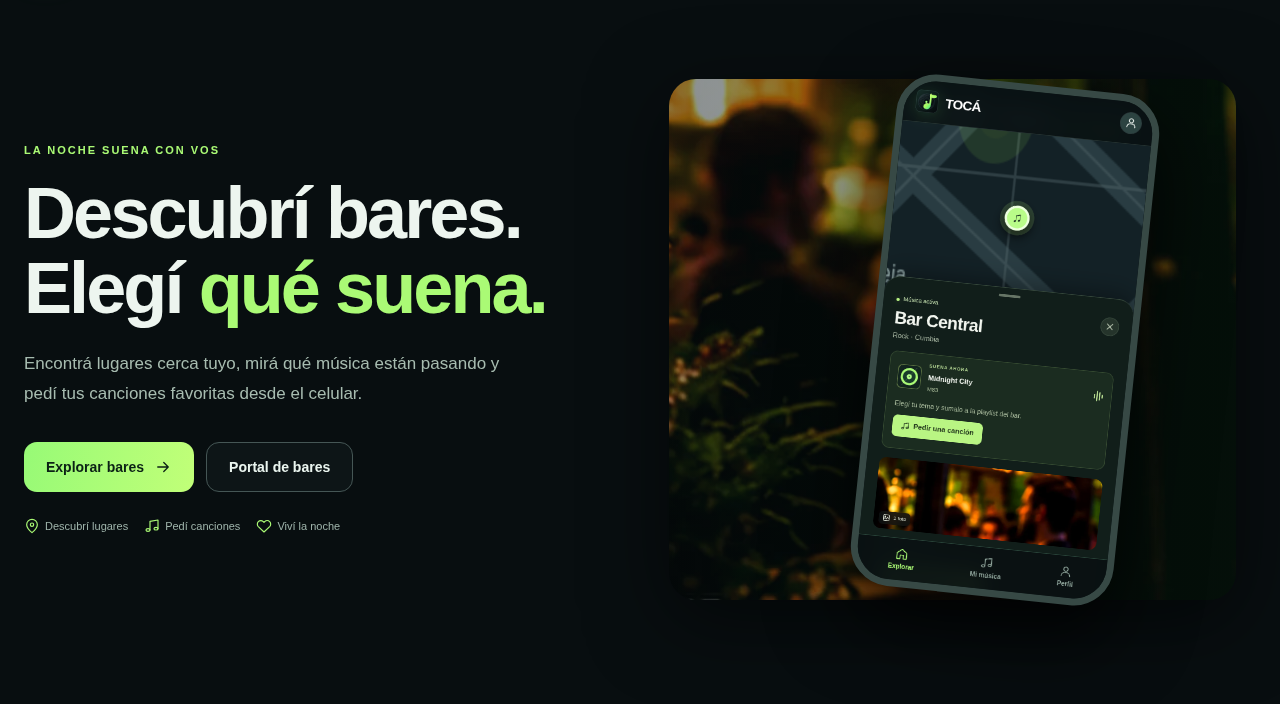
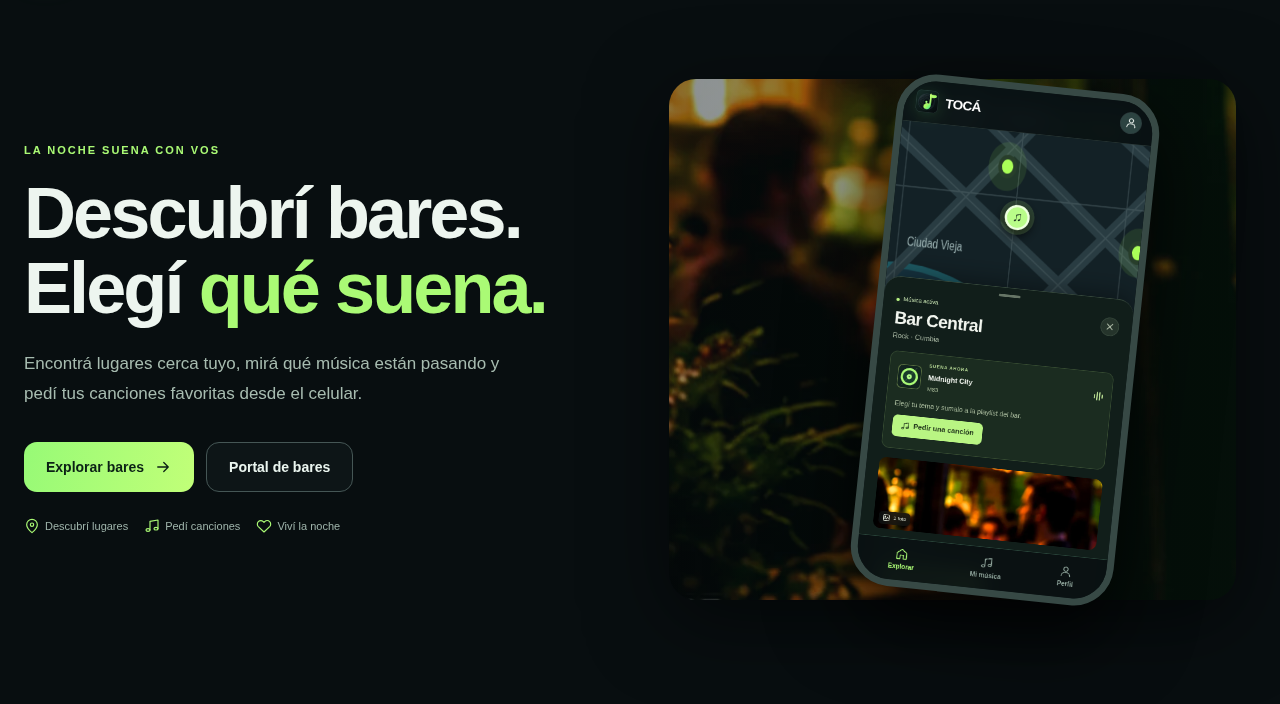
Zoom out the map in the homepage phone screenshot

Changed region(s): [[0.6875, 0.1562, 0.9062, 0.4062]]

diff --git a/web/sw.js b/web/sw.js
@@ -1,4 +1,4 @@
-const CACHE="toca-shell-a2eece8c72c16a1b";const SHELL=["/", "/index.html", "/manifest.webmanifest", "/assets/icon.svg", "/styles.css", "/toca.css?v=admin-width-1", "/toca-admin-clean.css?v=1735", "/toca-dashboard-controls.css?v=1737", "/toca-mibar-v174.css?v=174", "/toca-hours-v175.css?v=176", "/toca-v180.css?v=180", "/toca-map-credits-v181.css?v=181", "/toca-location-v184.css?v=184", "/toca-v184.css?v=184", "/toca-v185.css?v=185", "/toca-location-v1810.css?v=1810", "/toca-description-v1811.css?v=1811", "/toca-artwork-v1813.css?v=1813", "/toca-now-v1816.css?v=1816", "/toca-playlist-v1820.css?v=1820", "/toca-playlist-scroll-v1821.css?v=1821", "/toca-how-v1823.css?v=1823", "/toca-customer-v1826.css?v=1826", "/toca-presence-v1827.css?v=1827", "/toca-access-layout-v1829.css?v=1829", "/toca-cleanup-v1830.css?v=1830", "/toca-mi-bar-cards-v1839.css?v=1839", "/toca-spacing-v1840.css?v=1840", "/toca-profile-v1841.css?v=1841", "/toca-map-hover-v1845.css?v=1845", "/toca-google-v1847.css?v=1847", "/admin-profile.css?v=1", "/account.css?v=1", "/music-cabina.css?v=number-heading-1", "/venue-import.css?v=bio-hours-1", "/venue-onboarding.css?v=1", "/venue-profile.css?v=admin-width-1", "/venue-gallery.css?v=1", "/customer-wallet.css?v=brand-colors-3", "/bar-dashboard.css?v=1", "/map-place-panel.css?v=5", "/landing.css?v=steps-4", "/config.js?v=marketing-1", "/assets/qr.js", "/toca-hours-v175.js?v=176", "/request-sync.js?v=redirect-2", "/app.js?v=resume-after-topup-3", "/map-place-panel.js?v=5", "/toca-map-credits-v181.js?v=181", "/toca-ui.js?v=landing-3", "/bar-dashboard.js?v=1", "/venue-gallery.js?v=1", "/customer-wallet.js?v=resume-after-topup-2", "/toca-customer-v1826.js?v=account-layout-2", "/live-music.js?v=1816", "/venue-location.js?v=onboarding-1", "/toca-location-v1828.js?v=1828", "/toca-v17.js?v=venue-gallery-1", "/toca-v1738.js?v=1738", "/toca-v1739.js?v=1739", "/toca-artwork-v1813.js?v=1813", "/toca-now-v1816.js?v=1816", "/toca-playlist-v1820.js?v=1821", "/toca-presence-v1827.js?v=presence-recovery-1", "/toca-admin-access-v1829.js?v=distance-1", "/toca-cleanup-v1830.js?v=1830", "/toca-mi-bar-cards-v1839.js?v=1839", "/toca-profile-v1841.js?v=tokens-1", "/toca-google-v1847.js?v=1847b", "/account.js?v=2", "/map-loader.js?v=distance-map-1", "/landing.js?v=steps-4", "/runtime.js?v=3", "/admin-profile.js?v=1", "/bio-hours.js?v=1", "/venue-import.js?v=profile-sections-1", "/music-cabina.js?v=number-heading-1", "/music-cabina-drag.js?v=drag-2", "/music-edit-intent.js?v=1", "/music-playback.js?v=1", "/admin-music.js?v=playlist-edits-3", "/venue-onboarding.js?v=profile-sections-1", "/venue-profile.js?v=hours-2", "/assets/toca-home-map.svg", "/assets/venues/bar-1.webp", "/assets/venues/bar-2.webp", "/assets/venues/bar-3.webp", "/assets/venues/bar-4.webp", "/assets/venues/bar-5.webp", "/assets/venues/bar-6.webp", "/assets/landing/explore.png", "/assets/landing/search.png", "/assets/landing/tokens.png", "/assets/landing/success.png", "/assets/landing/admin-music.png"];
+const CACHE="toca-shell-8dd10aeef9542169";const SHELL=["/", "/index.html", "/manifest.webmanifest", "/assets/icon.svg", "/styles.css", "/toca.css?v=admin-width-1", "/toca-admin-clean.css?v=1735", "/toca-dashboard-controls.css?v=1737", "/toca-mibar-v174.css?v=174", "/toca-hours-v175.css?v=176", "/toca-v180.css?v=180", "/toca-map-credits-v181.css?v=181", "/toca-location-v184.css?v=184", "/toca-v184.css?v=184", "/toca-v185.css?v=185", "/toca-location-v1810.css?v=1810", "/toca-description-v1811.css?v=1811", "/toca-artwork-v1813.css?v=1813", "/toca-now-v1816.css?v=1816", "/toca-playlist-v1820.css?v=1820", "/toca-playlist-scroll-v1821.css?v=1821", "/toca-how-v1823.css?v=1823", "/toca-customer-v1826.css?v=1826", "/toca-presence-v1827.css?v=1827", "/toca-access-layout-v1829.css?v=1829", "/toca-cleanup-v1830.css?v=1830", "/toca-mi-bar-cards-v1839.css?v=1839", "/toca-spacing-v1840.css?v=1840", "/toca-profile-v1841.css?v=1841", "/toca-map-hover-v1845.css?v=1845", "/toca-google-v1847.css?v=1847", "/admin-profile.css?v=1", "/account.css?v=1", "/music-cabina.css?v=number-heading-1", "/venue-import.css?v=bio-hours-1", "/venue-onboarding.css?v=1", "/venue-profile.css?v=admin-width-1", "/venue-gallery.css?v=1", "/customer-wallet.css?v=brand-colors-3", "/bar-dashboard.css?v=1", "/map-place-panel.css?v=5", "/landing.css?v=steps-4", "/config.js?v=marketing-1", "/assets/qr.js", "/toca-hours-v175.js?v=176", "/request-sync.js?v=redirect-2", "/app.js?v=resume-after-topup-3", "/map-place-panel.js?v=5", "/toca-map-credits-v181.js?v=181", "/toca-ui.js?v=landing-3", "/bar-dashboard.js?v=1", "/venue-gallery.js?v=1", "/customer-wallet.js?v=resume-after-topup-2", "/toca-customer-v1826.js?v=account-layout-2", "/live-music.js?v=1816", "/venue-location.js?v=onboarding-1", "/toca-location-v1828.js?v=1828", "/toca-v17.js?v=venue-gallery-1", "/toca-v1738.js?v=1738", "/toca-v1739.js?v=1739", "/toca-artwork-v1813.js?v=1813", "/toca-now-v1816.js?v=1816", "/toca-playlist-v1820.js?v=1821", "/toca-presence-v1827.js?v=presence-recovery-1", "/toca-admin-access-v1829.js?v=distance-1", "/toca-cleanup-v1830.js?v=1830", "/toca-mi-bar-cards-v1839.js?v=1839", "/toca-profile-v1841.js?v=tokens-1", "/toca-google-v1847.js?v=1847b", "/account.js?v=2", "/map-loader.js?v=distance-map-1", "/landing.js?v=steps-4", "/runtime.js?v=3", "/admin-profile.js?v=1", "/bio-hours.js?v=1", "/venue-import.js?v=profile-sections-1", "/music-cabina.js?v=number-heading-1", "/music-cabina-drag.js?v=drag-2", "/music-edit-intent.js?v=1", "/music-playback.js?v=1", "/admin-music.js?v=playlist-edits-3", "/venue-onboarding.js?v=profile-sections-1", "/venue-profile.js?v=hours-2", "/assets/toca-home-map.svg", "/assets/venues/bar-1.webp", "/assets/venues/bar-2.webp", "/assets/venues/bar-3.webp", "/assets/venues/bar-4.webp", "/assets/venues/bar-5.webp", "/assets/venues/bar-6.webp", "/assets/landing/explore.png", "/assets/landing/search.png", "/assets/landing/tokens.png", "/assets/landing/success.png", "/assets/landing/admin-music.png"];
 self.addEventListener('install',e=>e.waitUntil(caches.open(CACHE).then(c=>c.addAll(SHELL)).then(()=>self.skipWaiting())));
 self.addEventListener('activate',e=>e.waitUntil(caches.keys().then(keys=>Promise.all(keys.filter(k=>k.startsWith('toca-shell-')&&k!==CACHE).map(k=>caches.delete(k)))).then(()=>self.clients.claim())));
 self.addEventListener('fetch',e=>{const u=new URL(e.request.url);if(e.request.method!=='GET'||u.origin!==location.origin||u.pathname.startsWith('/api/'))return;

diff --git a/scripts/capture-landing-screens.py b/scripts/capture-landing-screens.py
@@ -51,7 +51,11 @@ with sync_playwright() as p:
  page.route('**/*',api)
  page.set_viewport_size(dict(width=850,height=520));page.goto(BASE+'/assets/toca-home-map.svg');page.locator('svg').screenshot(path=str(OUT/'map-demo.png'));page.set_viewport_size(dict(width=390,height=780))
  page.goto(BASE+'/#/explore')
- try:page.get_by_role('button',name='Ver detalles de Bar Central',exact=True).click(timeout=10000)
+ try:
+  marker=page.get_by_role('button',name='Ver detalles de Bar Central',exact=True);marker.wait_for(timeout=10000)
+  # Use a wider map view in the homepage screenshot before the venue sheet centers it.
+  page.evaluate('state.map.setZoom(13,{animate:false})')
+  marker.click()
  except Exception:
   page.screenshot(path='/tmp/toca-landing-capture-failed.png');print('Capture diagnostics:',errors,logs,page.evaluate('({maps:typeof L,loader:typeof tocaLoadMaps,map:!!state.map})'),page.locator('#app').inner_text()[:300],flush=True);raise
  expect(page.locator('.place-primary')).to_be_visible();page.wait_for_timeout(500)
